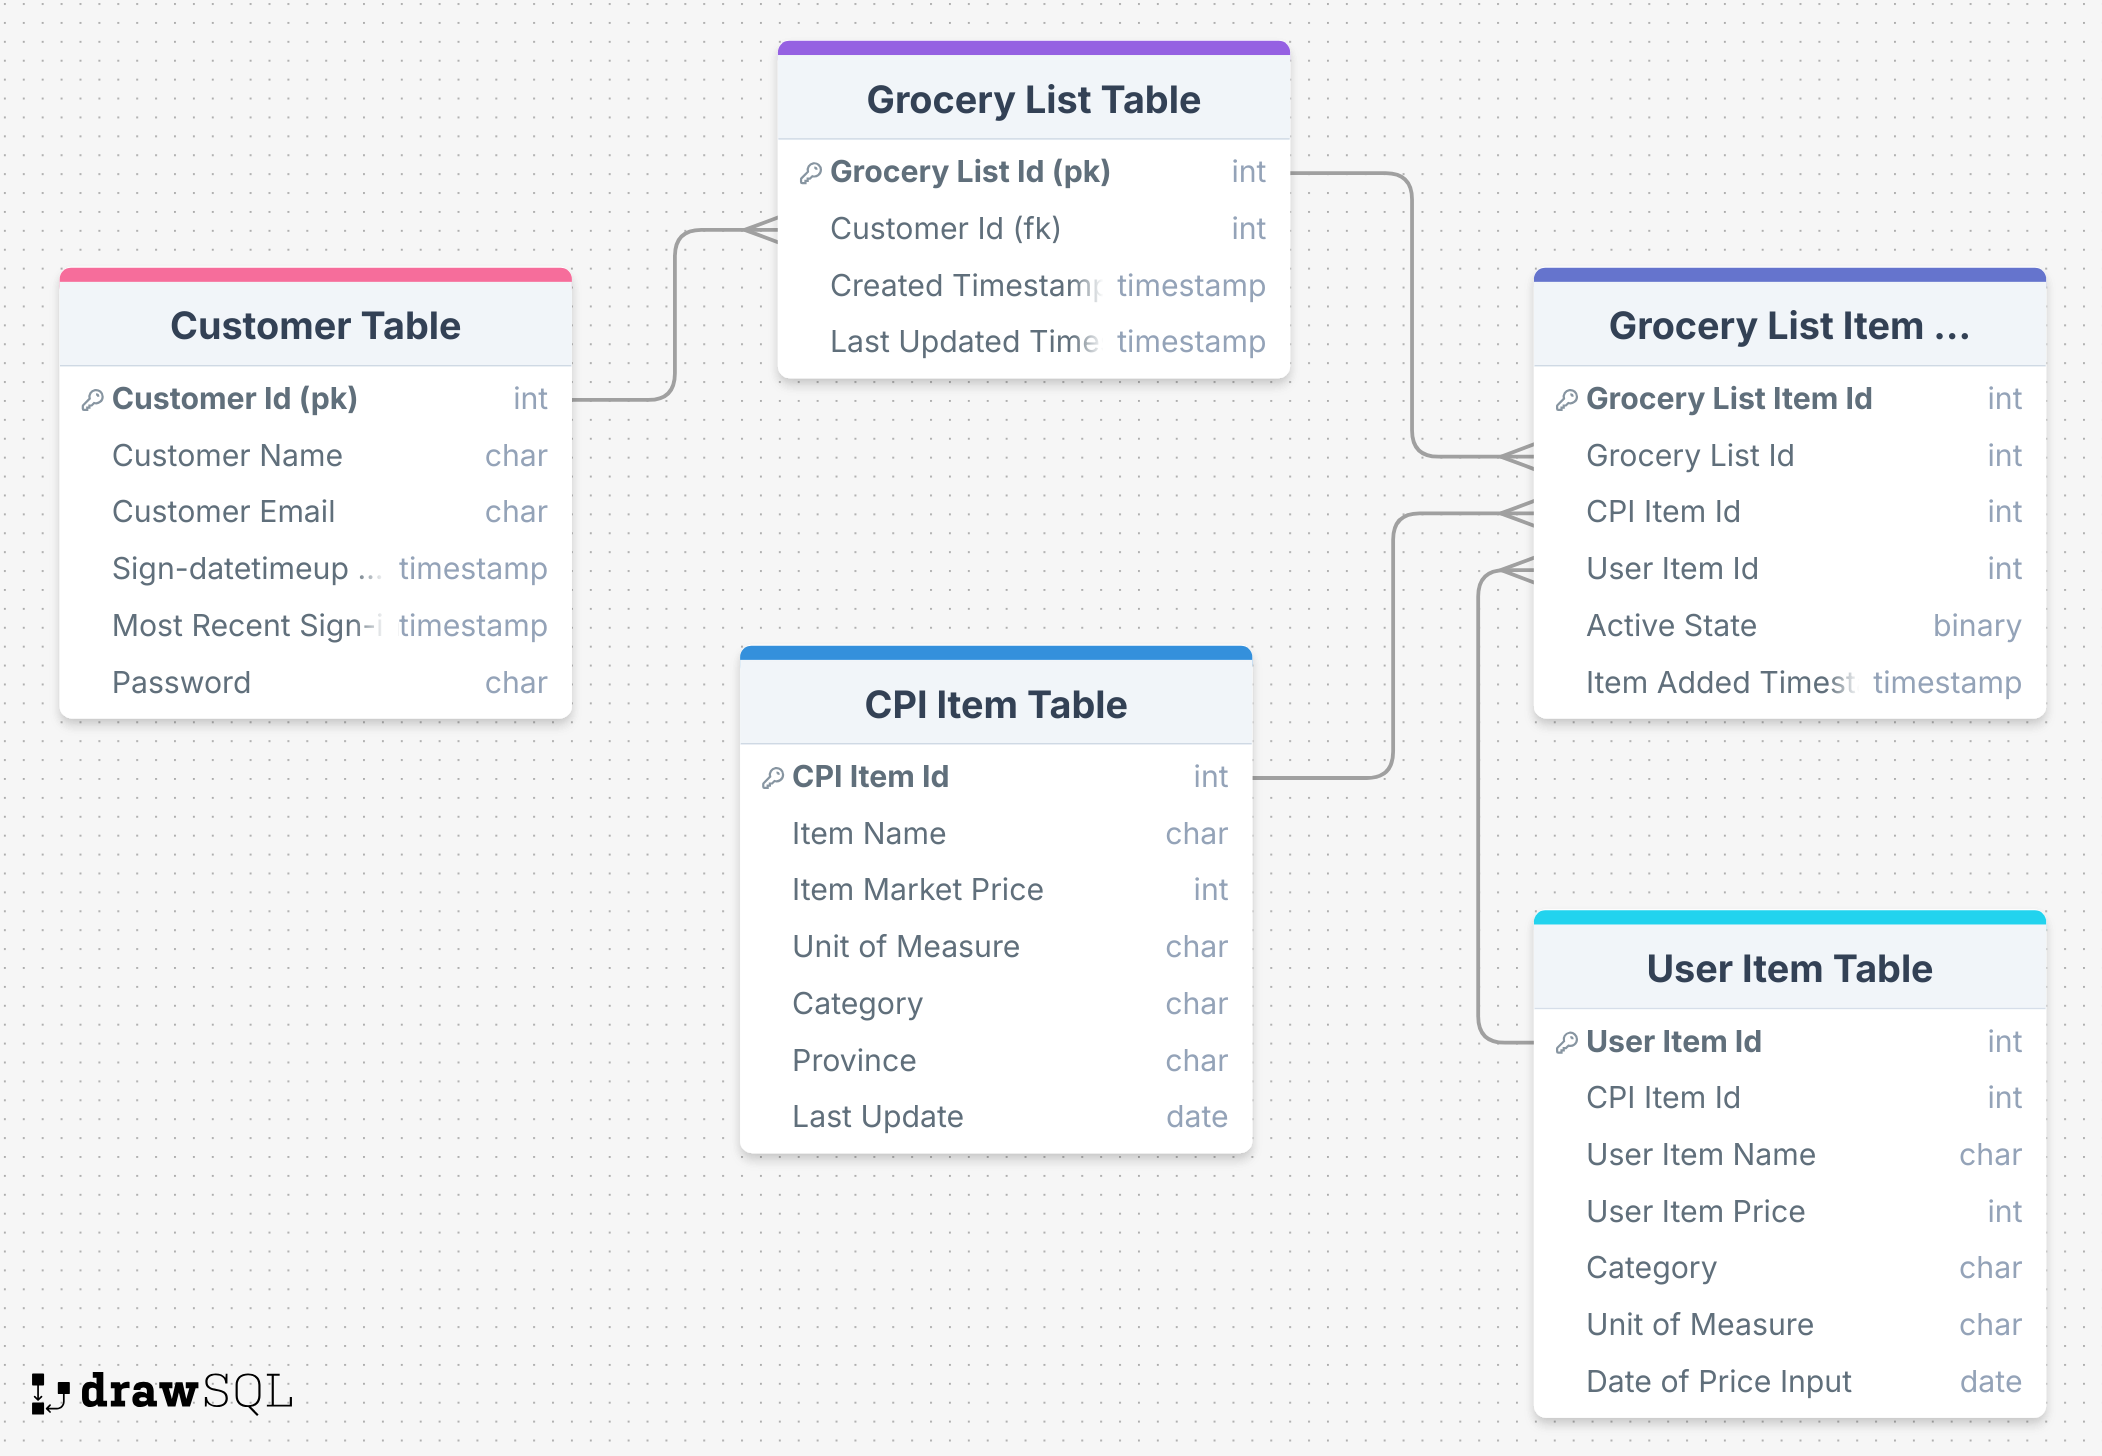
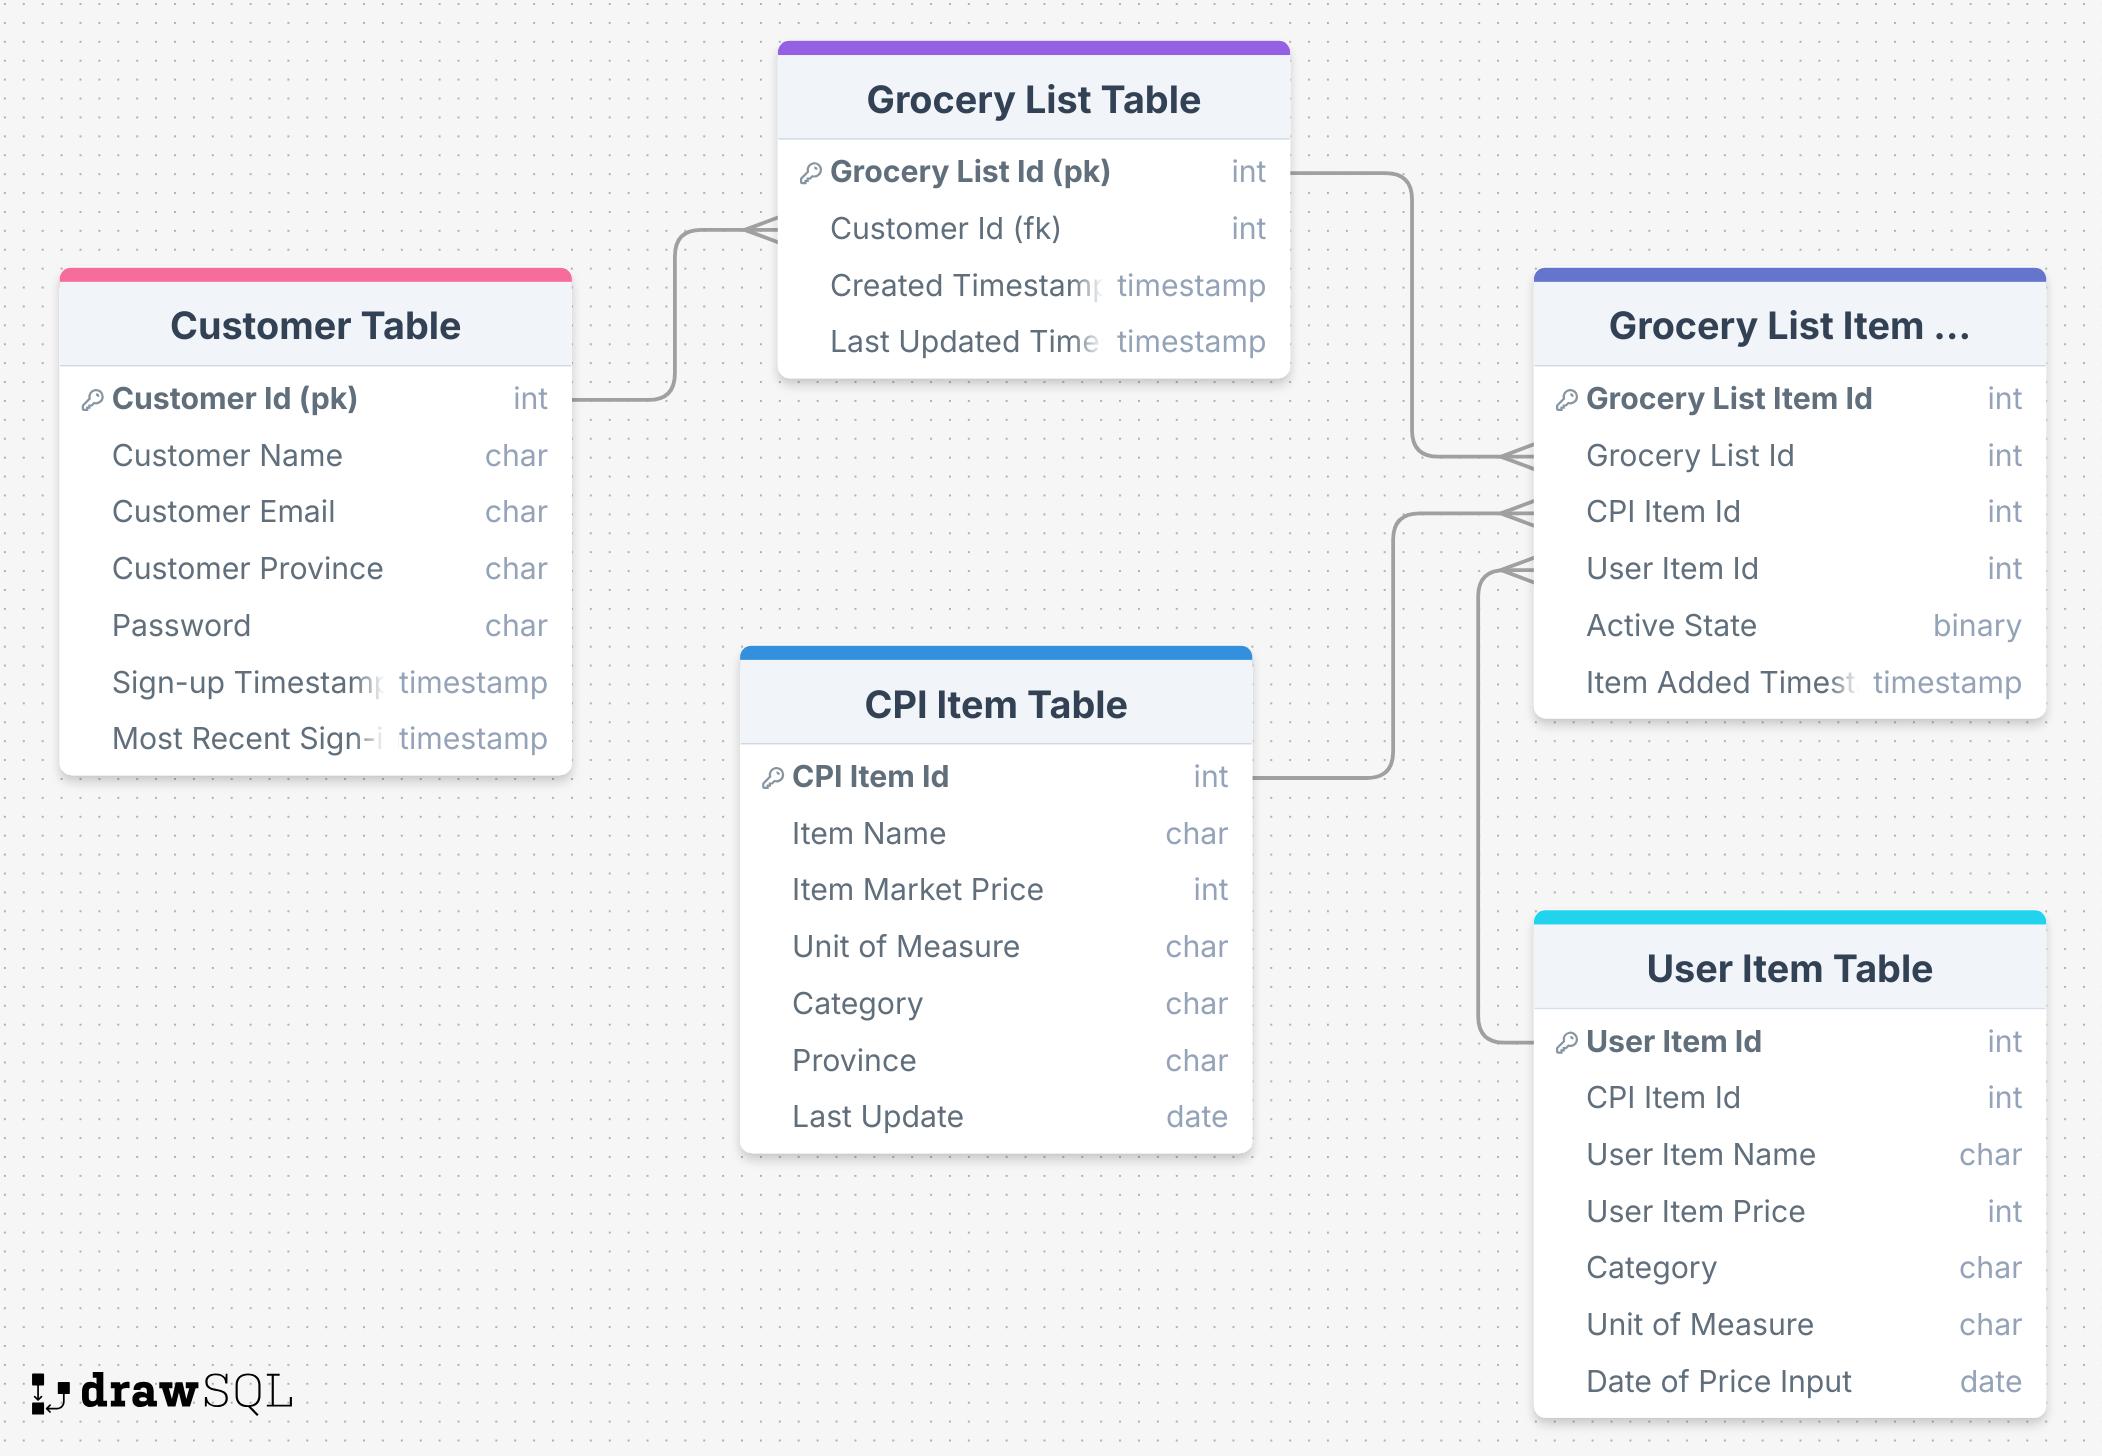
Adjusted SQL data diagram.

Changed region(s): [[0.0309, 0.3709, 0.2783, 0.5563]]

diff --git a/README.md b/README.md
@@ -123,9 +123,9 @@ Stats Canada API: This external data source will provide real-time market averag
 ##### Customer Table - Includes all information about the customer:
 
     - Customer ID (primary key)
-    - Name
-    - Email
-    - Location
+    - Customer Name
+    - Customer Email
+    - Customer Province
     - Password
     - Sign-up Timestamp
     - Most recent sign-in
@@ -141,14 +141,14 @@ Stats Canada API: This external data source will provide real-time market averag
 
     - Grocery List Item Id (primary key)
     - Grocery List Id (foreign key)
-    - Item Id (foreign key)
+    - CPI Item Id (foreign key)
     - User Item Id (foreign key)
     - Active I/O
-    - Added Timestamp
+    - Item Added Timestamp
 
-##### Food Item CPI Table - This table will hold the price of all items from all provinces
+##### CPI Item Table - This table will hold the price of all items from all provinces
 
-    - Item Id (primary key)
+    - CPI Item Id (primary key)
     - Item Name
     - Item Market Price
     - Unit of Measure
@@ -156,12 +156,12 @@ Stats Canada API: This external data source will provide real-time market averag
     - Province
     - Last Updated Timestamp
 
-##### Food Item User Price Table - This table will hold all prices a user logs for any given item
+##### User Item Table - This table will hold all prices a user logs for any given item
 
     - User Item Id (primary key)
-    - Item Id (foreign key) - (will be used to store item id if that item exists in the CPI database)
-    - Item Name
-    - User Input Price
+    - CPI Item Id (foreign key) - (will be used to store item id if that item exists in the CPI database)
+    - User Item Name
+    - User Item Price
     - Category
     - Unit of Measure
     - Date of Price Input
